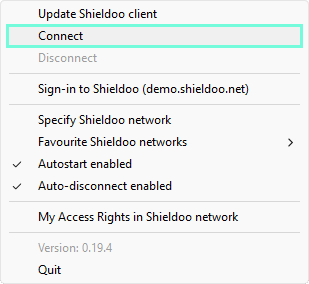
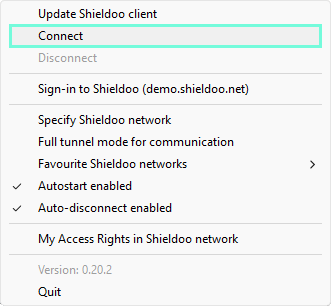
Add Full tunnel mode (#22)

diff --git a/docs/pages/1_user/02_connect_me.md b/docs/pages/1_user/02_connect_me.md
@@ -100,12 +100,13 @@ After successfully connecting to the Shieldoo Secure Network, you can securely c
 >- Update Shieldoo Client - _If a new client version is available, you can update it using this option_.
 >- Disconnect - _Use this option to disconnect from the network without losing your login credentials_.
 >- Specify Shieldoo network - _Use this option to change the network URL parameter_.
+>- Enabled Full tunnel mode for communication - _The use option allows the feature of an anonymous VPN (you are masked on the Internet under the Lighthouse IP address)._
 >- Favorite Shieldoo Networks - _Use this option to save a list of your networks and switch between them._
->- Enable Auto Start - _The use option allows the client to start automatically when the OS boots._ 
->- Enabled automatic disconnect - _The use option allows you to save costs because, after 20 minutes of inactivity to connect to any server or access service, the client will automatically disconnect from the network._
+>- Enabled Autostart - _The use option allows the client to start automatically when the OS boots._ 
+>- Enabled Auto-disconnect - _The use option allows you to save costs because, after 20 minutes of inactivity to connect to any server or access service, the client will automatically disconnect from the network._
 >- My access rights on the Shieldoo network - _Use this option to redirect to a list of my access rights._
 >- Version - _Displays the currently installed version of the client._
->- Exit - _Use option to exit the client._
+>- Exit - _Use this option to exit the client._
 
 ### Connect to Servers
 To see the list of available servers, go to __Connect Me__ \| __My Access Rights__ in the Shieldoo web application.
